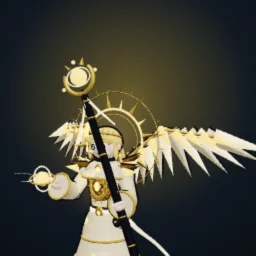
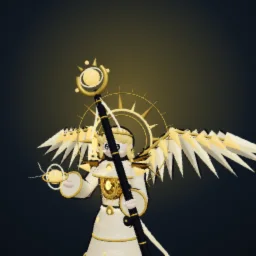
fix(client): stop the gods burning out to white in the lobby

Changed region(s): [[0.0625, 0.2188, 1.0, 1.0], [0.625, 0.9688, 0.6562, 1.0], [0.5, 0.3438, 0.5312, 0.375]]

diff --git a/apps/client/src/scene/LobbyScene.tsx b/apps/client/src/scene/LobbyScene.tsx
@@ -5,7 +5,7 @@ import { EffectComposer } from 'three/examples/jsm/postprocessing/EffectComposer
 import { OutputPass } from 'three/examples/jsm/postprocessing/OutputPass.js';
 import { RenderPass } from 'three/examples/jsm/postprocessing/RenderPass.js';
 import { UnrealBloomPass } from 'three/examples/jsm/postprocessing/UnrealBloomPass.js';
-import { Rng } from '@game/core';
+import { HEROES, Rng } from '@game/core';
 import type { Graphics } from '@/store/settingsStore';
 import { HeroShowcase } from './HeroShowcase';
 import { buildProps, propMaterial, shrineGeometry } from './egypt';
@@ -182,16 +182,22 @@ function Forest() {
   );
 }
 
+/** How bright the lamps on a god are, against those on any other hero. */
+const GOD_LAMPS = 0.3;
+
 /** The hero being picked, life-size on the path in front of the emblem. */
 function Hero({ heroId, size }: { heroId: string; size: number }) {
+  // The gods are dressed in pale cloth and carry lights of their own: under the lamps that suit the
+  // others they burn out to white, so theirs are turned well down.
+  const lamps = HEROES[heroId]?.race === 'god' ? GOD_LAMPS : 1;
   return (
     <group position={[0, 0, HERO_Z]}>
       <group scale={HERO_SCALE * size}>
         <HeroShowcase key={heroId} heroId={heroId} />
       </group>
       {/* A soft key light from the camera side and a race-coloured rim from behind. */}
-      <pointLight position={[-3, 7, 9]} color={COLORS.neutral} intensity={230} distance={30} />
-      <pointLight position={[3, 5, -4]} color={heroColor(heroId)} intensity={220} distance={24} />
+      <pointLight position={[-3, 7, 9]} color={COLORS.neutral} intensity={230 * lamps} distance={30} />
+      <pointLight position={[3, 5, -4]} color={heroColor(heroId)} intensity={220 * lamps} distance={24} />
     </group>
   );
 }

diff --git a/apps/client/src/scene/Swordsman.ts b/apps/client/src/scene/Swordsman.ts
@@ -660,11 +660,13 @@ export class Swordsman {
       // Armour of small overlapping plates, light showing between some of them: the dragons' own scales, in metal.
       armour: make(colours.armour, { ...skinned(colours.gem, 1.6, 1), roughness: 0.35, metalness: 0.65 }),
       trim: make(colours.trim, { roughness: 0.3, metalness: 0.8 }),
-      ribbon: make(colours.ribbon, { side: DoubleSide, emissive: colours.ribbon, emissiveIntensity: 0.9 }),
+      // Lit from within, but not strongly: the lobby blooms bright things, and wings and halos made of
+      // these two burned out to white there.
+      ribbon: make(colours.ribbon, { side: DoubleSide, emissive: colours.ribbon, emissiveIntensity: 0.45 }),
       skin: make(colours.skin, { roughness: 0.6 }),
       hair: make(colours.hair, { roughness: 0.45 }),
       blade: make(colours.blade, { roughness: 0.2, metalness: 0.9 }),
-      gem: make(colours.gem, { roughness: 0.2, emissive: colours.gem, emissiveIntensity: 1.6 }),
+      gem: make(colours.gem, { roughness: 0.2, emissive: colours.gem, emissiveIntensity: 0.9 }),
       dark: make('#14161c'),
     };
 
